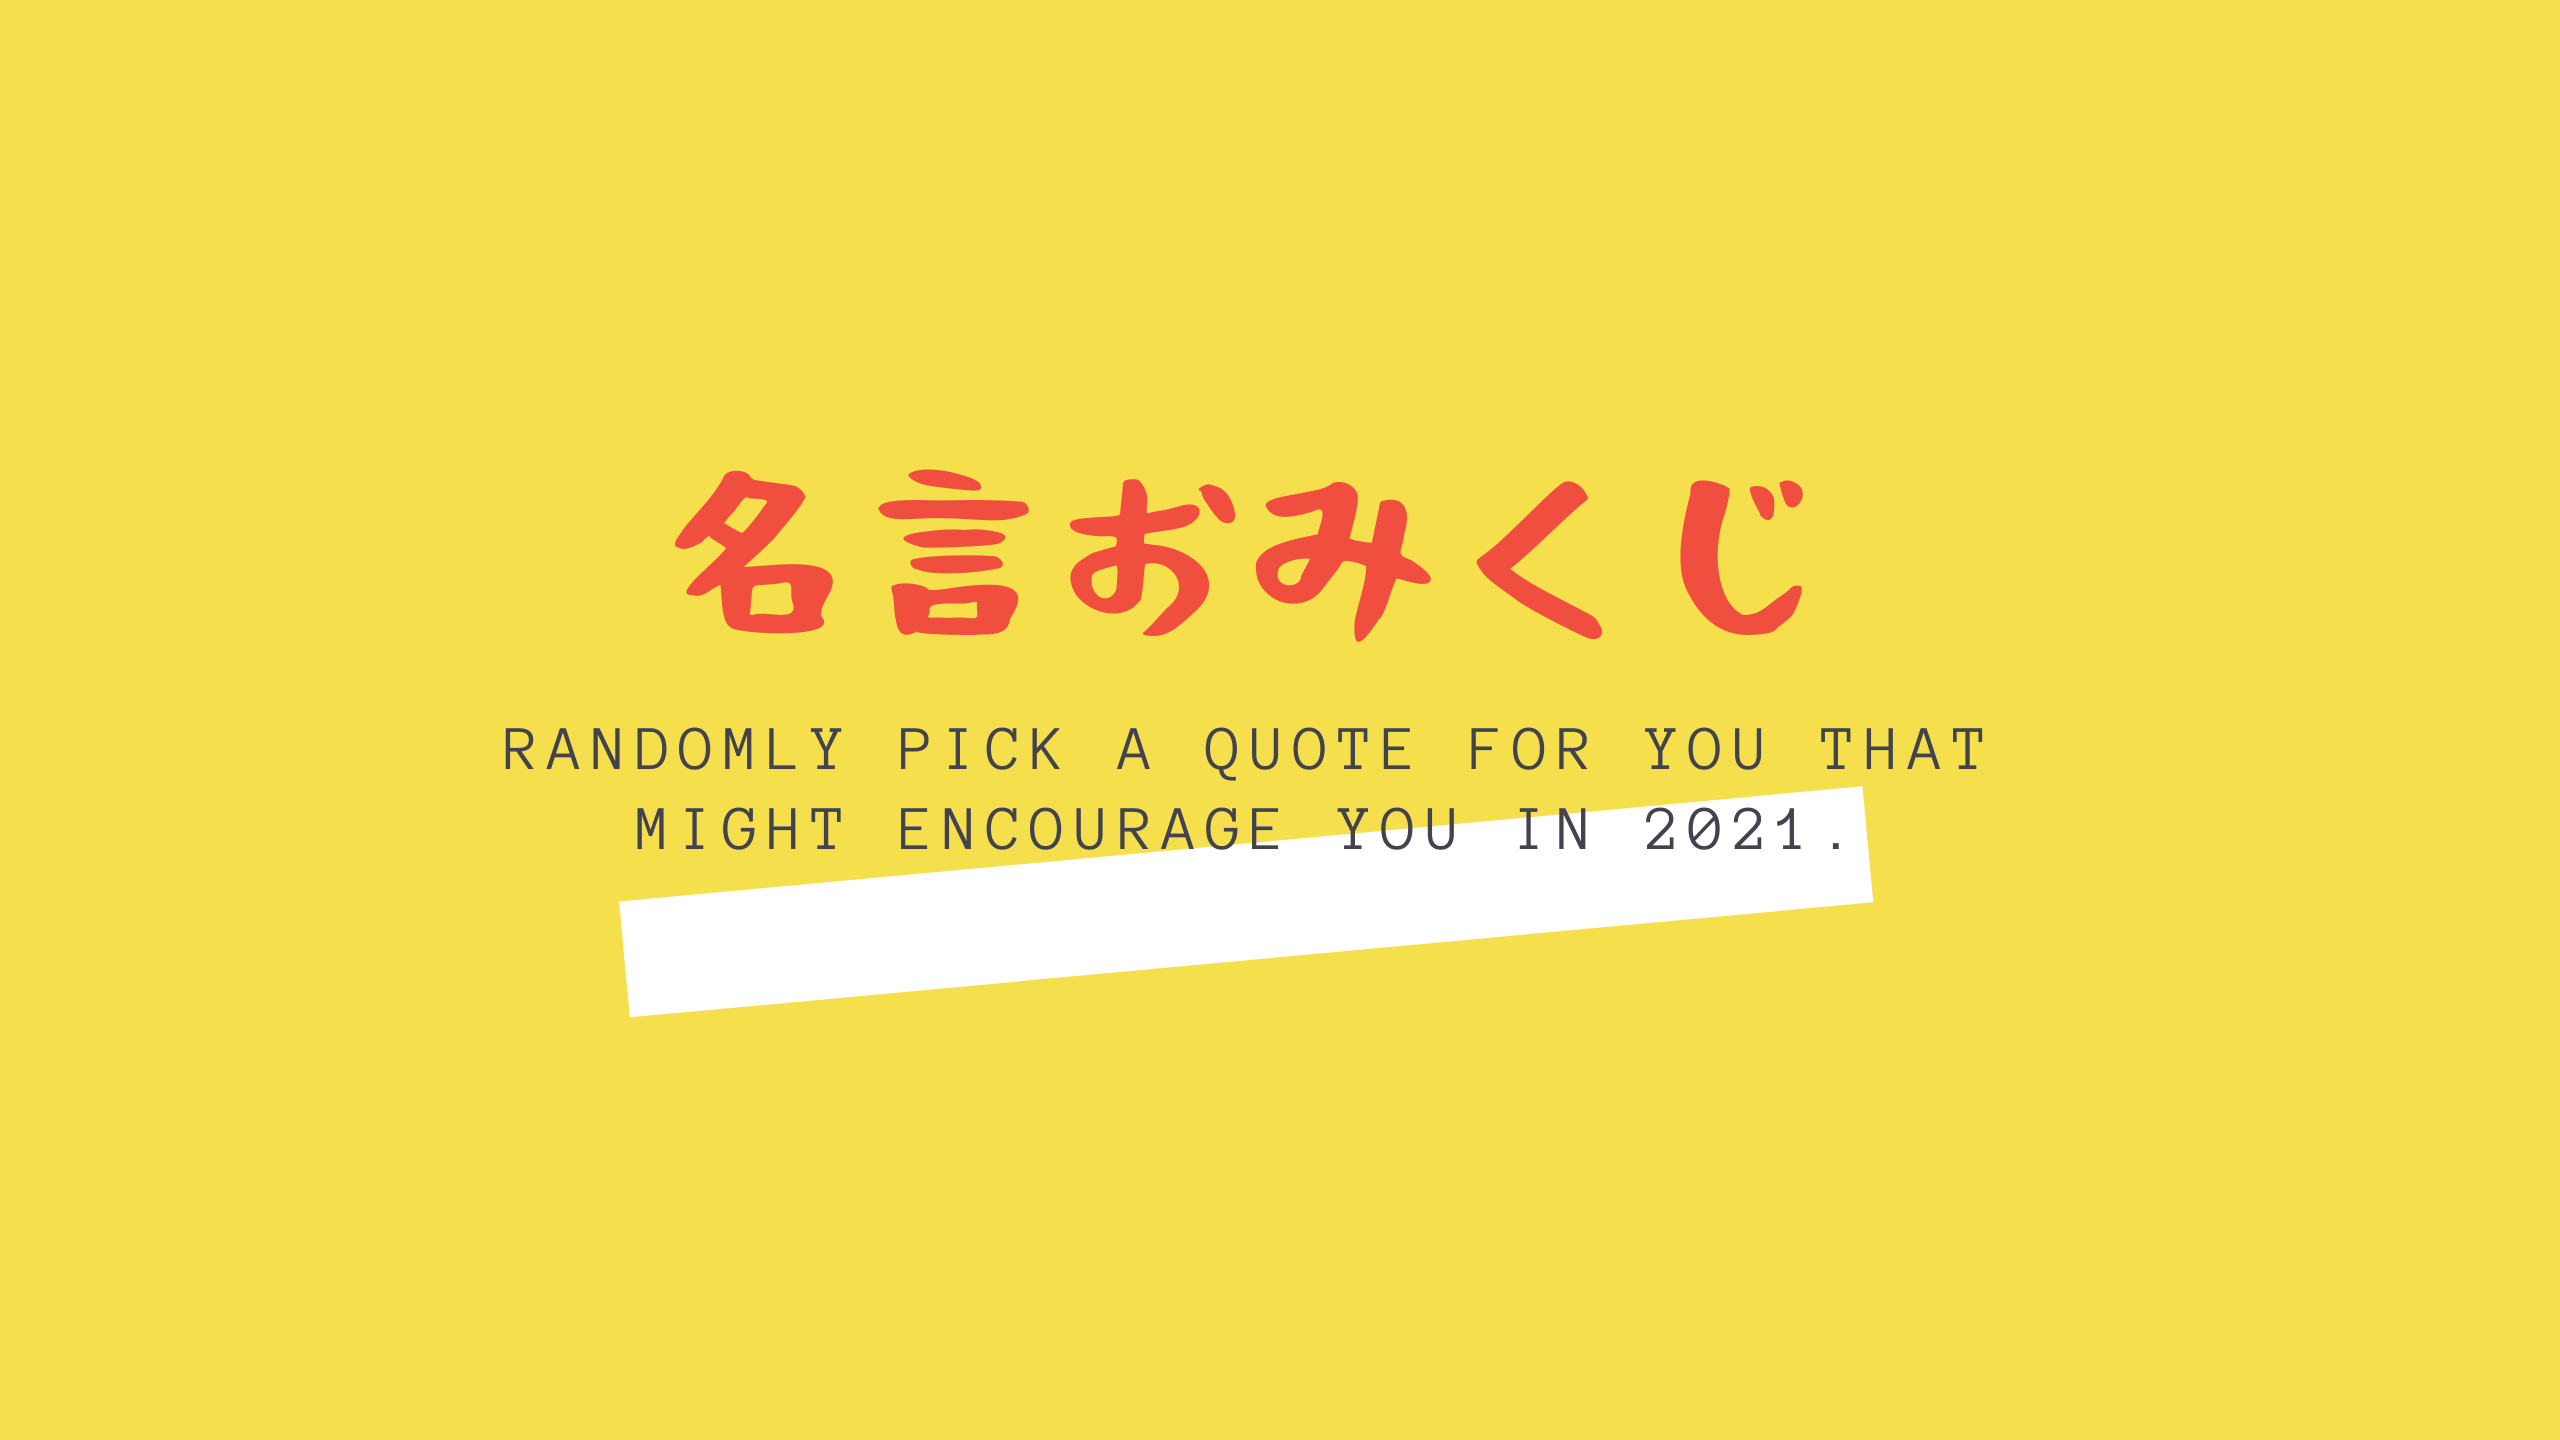
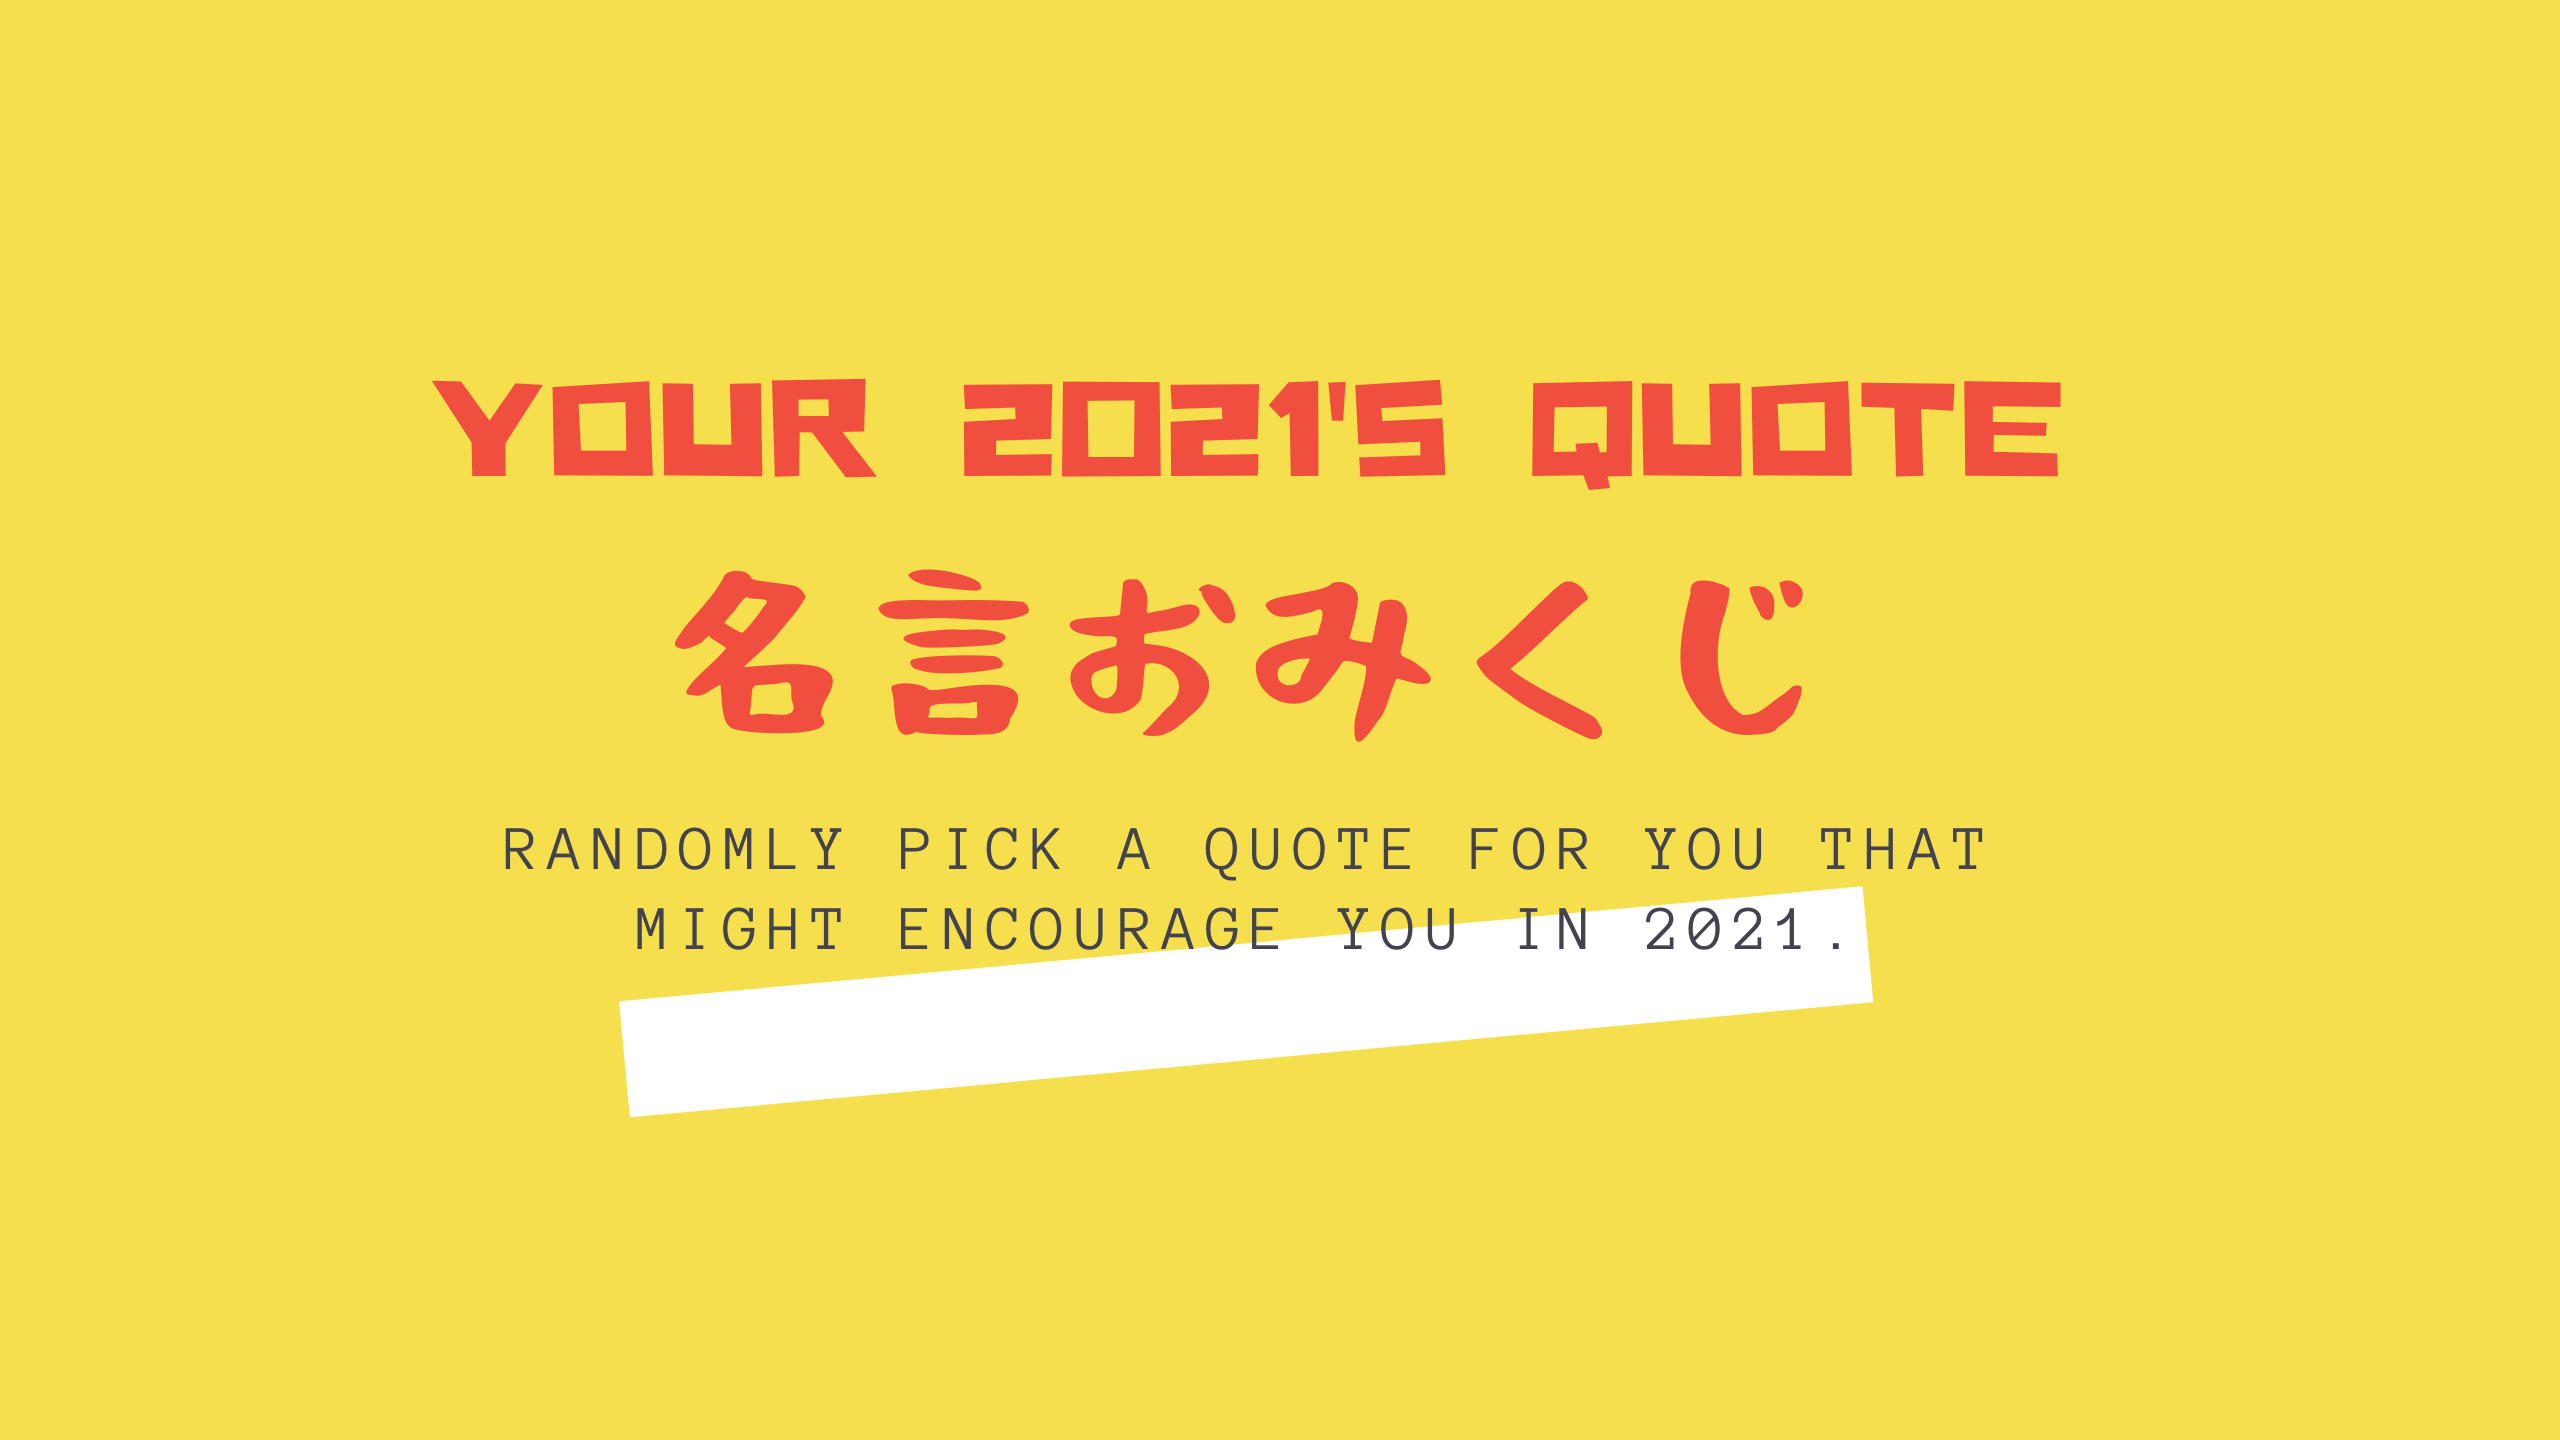
Refine OGP image; Tweak

Changed region(s): [[0.1562, 0.25, 0.8125, 0.7812]]

diff --git a/components/organisms/QuoteBox.vue b/components/organisms/QuoteBox.vue
@@ -133,12 +133,12 @@ export default Vue.extend<Data, Methods, {}, {}>({
 
 <style scoped lang="scss">
 .block__title {
-  padding: $distance-md 0 $distance-lg 0;
+  padding: $distance-md 0 $distance-md 0;
   text-align: center;
   font-size: $font-lg;
 }
 .block__bottom {
-  margin-top: $distance-lg;
+  margin-top: $distance-md;
 }
 .block__bottomSns {
   display: flex;
